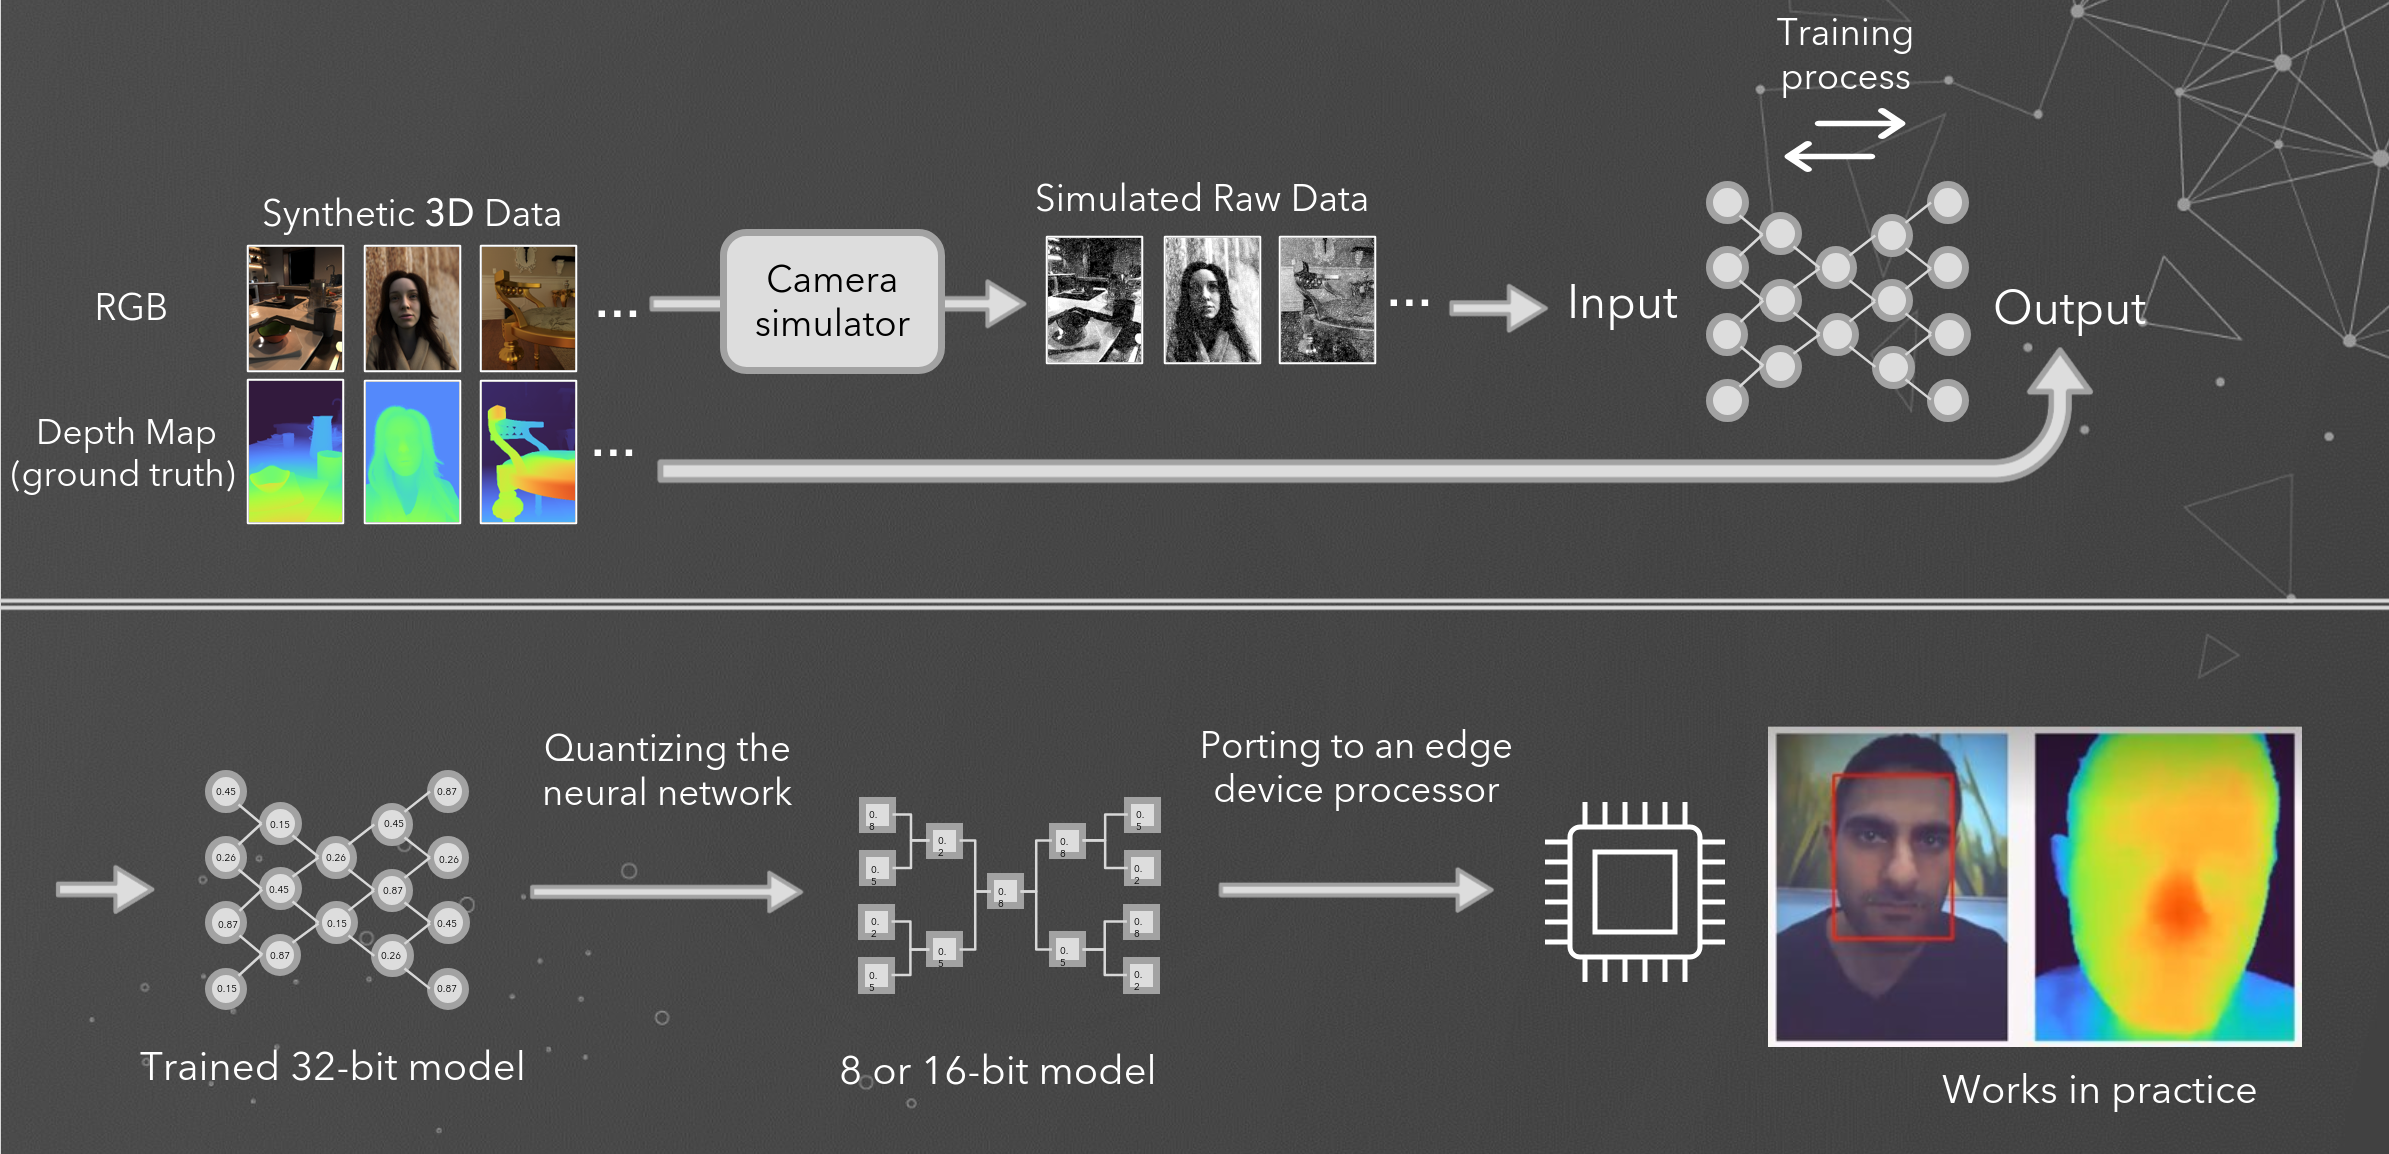
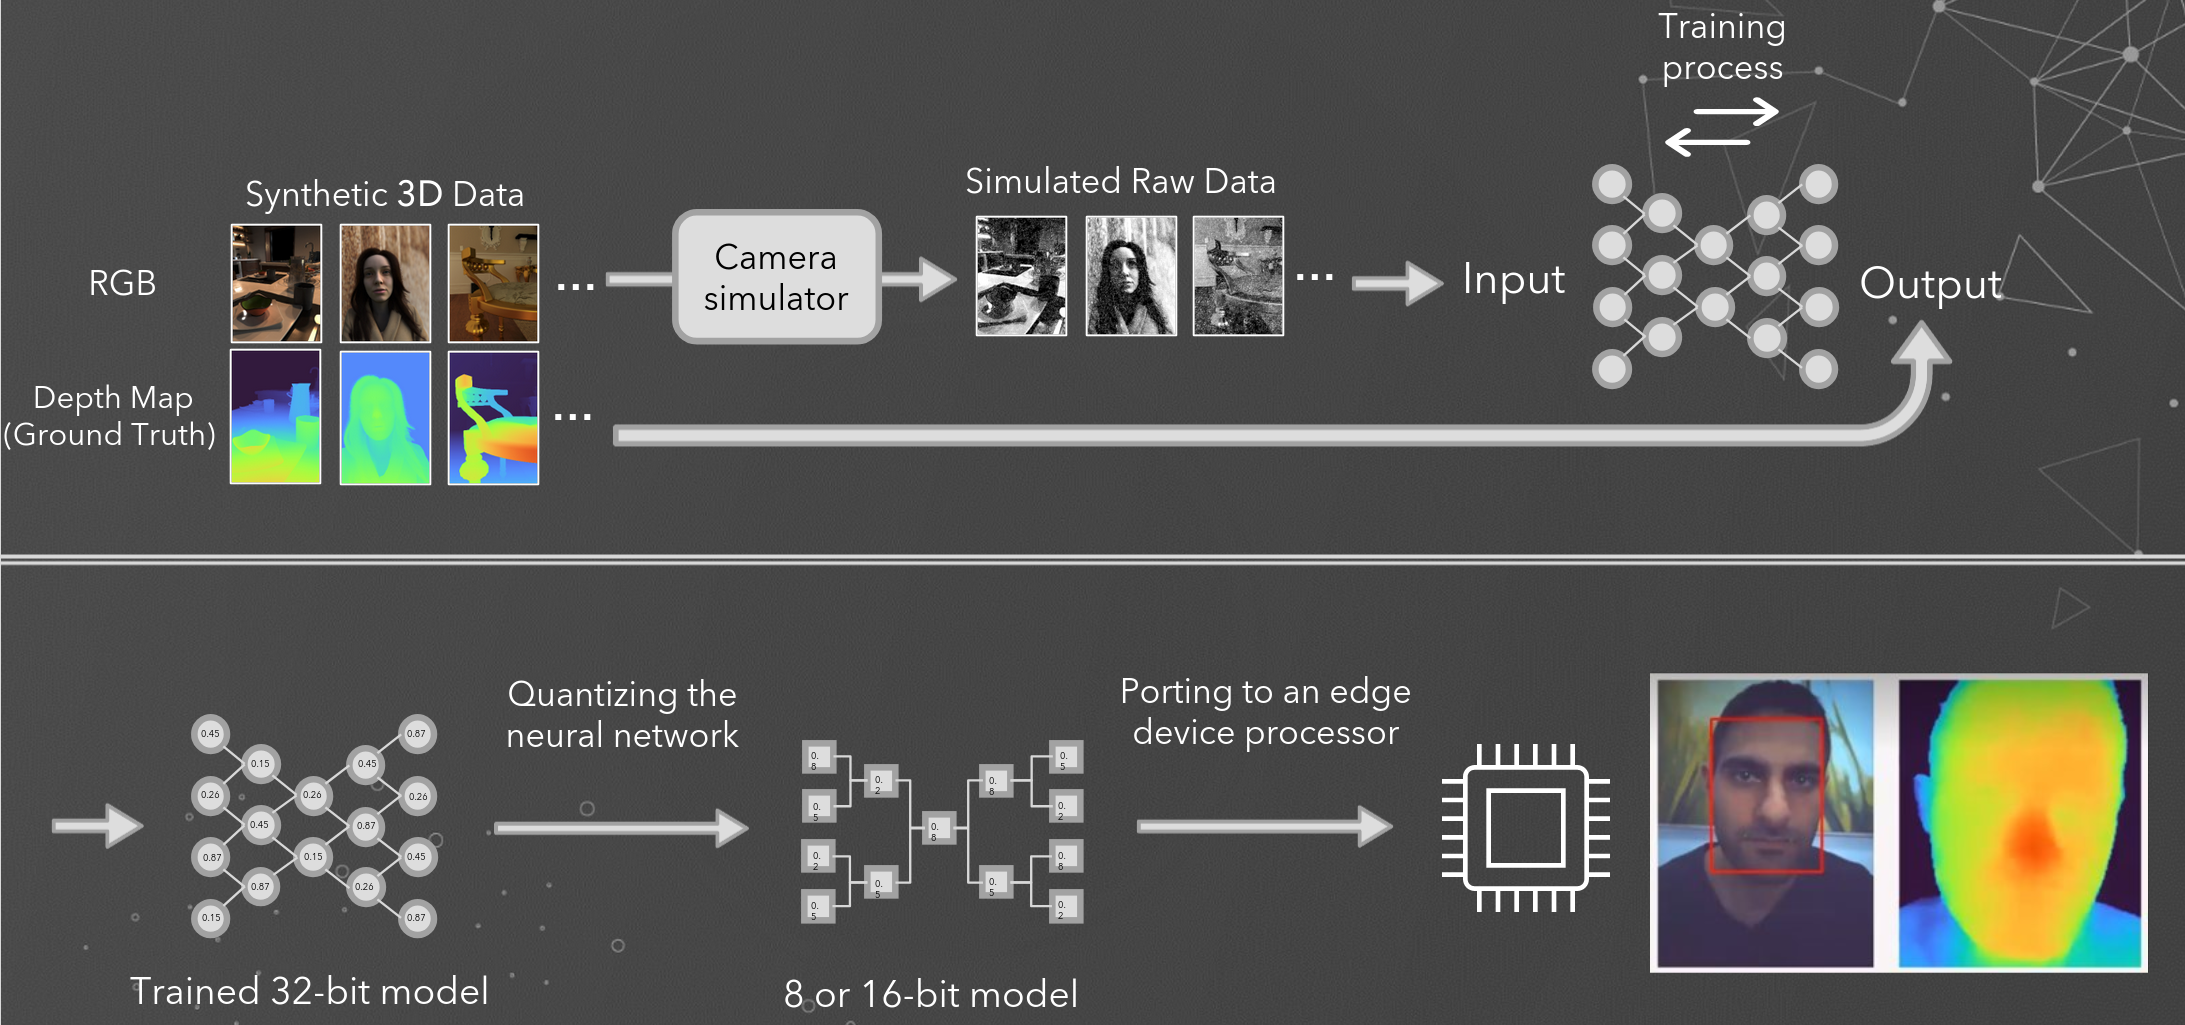
Update cards

diff --git a/index.html b/index.html
@@ -164,7 +164,7 @@
     <!-- Projects -->
     <h2>Selected Projects</h2>
 
-    <div class="grid">כ
+    <div class="grid">
 
       <div class="card">
         <div class="card-title">Light Field - Depth Estimation</div>
@@ -185,7 +185,7 @@
       <div class="card">
         <div class="card-title">Multi-bounce Reflectometry</div>
         <div class="card-desc">
-          Modeling indirect light transport and multi-bounce reflections for inverse rendering and scene understanding.
+          Developed a differentiable rendering framework for physically-based rendering (PBR) targeting inverse rendering tasks, including BRDF estimation and material recovery for real-world objects. The approach extends to concave geometries and improves the modeling of multi-bounce light transport in complex scenes.
         </div>
         <img src="imgs/reflectometry.png" />
       </div>